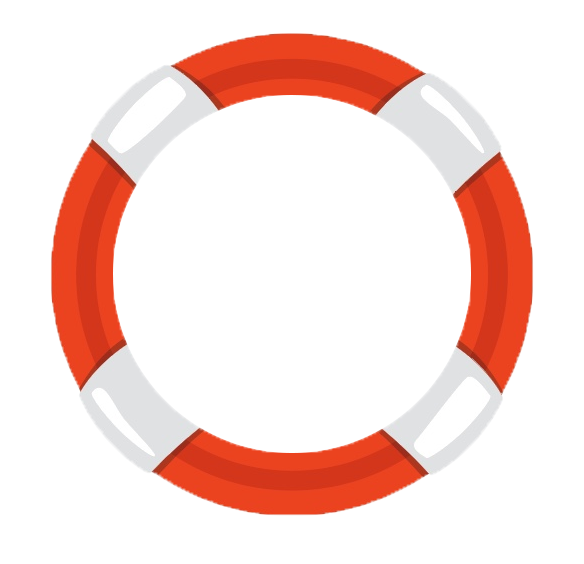
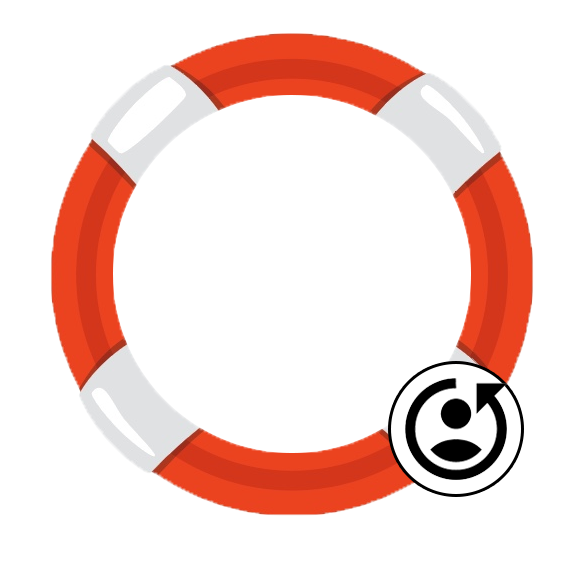
feat: 프로필 사진 변경 기능 추가

Changed region(s): [[0.6473, 0.633, 0.9247, 0.9043]]

diff --git a/front/src/pages/accounts/ProfilePage.jsx b/front/src/pages/accounts/ProfilePage.jsx
@@ -1,4 +1,4 @@
-import { useDispatch } from "react-redux";
+import { useDispatch, useSelector } from "react-redux";
 import { useState, useEffect } from "react";
 import { useNavigate } from "react-router-dom";
 import styled from "styled-components";
@@ -6,15 +6,17 @@ import ChartShow from "../../components/common/Chart";
 import ProfileBorder from "../../../src/assets/profilePage/ProfileBorder.png";
 import Loading from "../../components/common/Loading";
 import BookMark from "../../../src/assets/detail/BookMark.png";
-import { profile } from "../../features/accounts/profileSlice";
+import { profile, profileImage } from "../../features/accounts/profileSlice";
 import { getTags } from "../../features/toons/searchSlice";
 import { tagLike } from "../../features/details/detailSlice";
+import { changeCurrentUser } from "../../features/accounts/loginSlice";
 import profileImgItem from "../../assets/profile/profileImgItem";
 import ToonItem from "../../components/toonlist/ToonItem";
 import ModalFrame from "../../components/common/ModalFrame";
 import Left from "../../../src/assets/detail/Left.png";
 import Right from "../../../src/assets/detail/Right.png";
 import Empty from "../../../src/assets/tuntunEmpty.png";
+import MySwal from "../../components/common/SweetAlert";
 
 function ProfilePage() {
   const dispatch = useDispatch();
@@ -25,16 +27,23 @@ function ProfilePage() {
   const [paintGraphData, setPaintGraphData] = useState();
   const [genreName, setgGenreName] = useState();
   const [genreValue, setgGenreValue] = useState();
-  const [modal, setModal] = useState(false);
+  const [tagModal, setTagModal] = useState(false);
+  const [profileModal, setProfileModal] = useState(false);
   const [count, setCount] = useState(1);
   const [slideCount, setSlideCount] = useState();
   const [unLikedTags, setUnLikedTags] = useState(); //검색가능한 데이터
   const [searchWord, setSearchWord] = useState("");
   const [filteredTags, setFilteredTags] = useState();
-
+  const [profileImageId, setProfileImageId] = useState(0);
+  const [toolTipDisplay, setToolTipDisplay] = useState("none");
   let slide;
+  let myProfile
+  useSelector(
+    (state) => myProfile = state.login.currentUser
+  )
   const boxColor = ["#fea3a3", "#92d7fa", "#fffbaf"];
   let boxColorIndex = 0;
+  const profileNumbers = [0, 1, 2, 3, 4, 5];
   function getUserInfo() {
     dispatch(profile()).then((res) => {
       console.log(res.payload);
@@ -60,7 +69,6 @@ function ProfilePage() {
         Math.ceil(Number(res.payload.data.liked_webtoons.length) / 4)
       );
       setIsLoading(false);
-      console.log(res.payload.data.tags);
       dispatch(getTags()).then((tagres) => {
         let temp = tagres.payload;
         let tempUnLikedTags = [];
@@ -68,7 +76,6 @@ function ProfilePage() {
           (tag) => !tempLikedTags.includes(tag.tag_id)
         );
         setUnLikedTags(tempUnLikedTags);
-        console.log(tempUnLikedTags);
       });
     });
   }
@@ -89,8 +96,8 @@ function ProfilePage() {
     return result;
   }
 
-  function switchModal() {
-    setModal((prev) => !prev);
+  function switchTagModal() {
+    setTagModal((prev) => !prev);
   }
 
   function left() {
@@ -168,6 +175,41 @@ function ProfilePage() {
     );
     setFilteredTags(tempFilteredTags);
     console.log(e.target.value);
+  }
+
+  function switchProfileModal() {
+    setProfileModal((prev) => !prev);
+  }
+
+  function chooseProfile(e) {
+    console.log(e.target.id);
+    setProfileImageId(e.target.id);
+  }
+
+  function profileChange() {
+    let data = { profile_image_id: profileImageId }
+    dispatch(profileImage(data)).then(() => {
+      let tempMyProfile = JSON.stringify(myProfile);
+      tempMyProfile = JSON.parse(tempMyProfile);
+      tempMyProfile.profile_image_id = profileImageId;
+      dispatch(changeCurrentUser(tempMyProfile));
+      getUserInfo();
+      MySwal.fire({
+        title: "프로필 사진 변경 완료!",
+        icon: "success",
+        confirmButtonColor: "#feec91",
+        confirmButtonText: "확인",
+      });
+      setProfileModal(false);
+    });
+  }
+
+  function toolTipOn() {
+    setToolTipDisplay("");
+  }
+
+  function toolTipOff() {
+    setToolTipDisplay("none");
   }
 
   useEffect(() => {
@@ -248,9 +290,37 @@ function ProfilePage() {
           <UserBorder>
             <UserBack>
               <UserInfo>
-                <BorderImg src={ProfileBorder} alt="테두리" />
+                <ToolTip id="ToolTip" data={toolTipDisplay}>프사 바꿀래?</ToolTip>
+                <BorderImg src={ProfileBorder} alt="테두리" onClick={switchProfileModal} onMouseEnter={toolTipOn} onMouseOut={toolTipOff} />
                 <ProfileImg src={userImg} alt="프로필사진" />
-                <Name>{userInfo.data.nickname} 님의 관심정보</Name>
+                {profileModal ? (
+                  <ModalFrame
+                    top="10vw"
+                    width="75%"
+                    height="auto"
+                    _handleModal={switchProfileModal}
+                  >
+                    <ModalTitle>마음에 드는 프로필 이미지를 골라주세요</ModalTitle>
+                    <Line></Line>
+                    <ProfileZone>{profileNumbers.map((profileNumber) => profileNumber === Number(profileImageId) ? <ChoosedProfileCandidate src={profileImgItem[profileNumber].img} id={profileNumber} onClick={chooseProfile} key={profileNumbers}></ChoosedProfileCandidate> : <ProfileCandidate src={profileImgItem[profileNumber].img} id={profileNumber} onClick={chooseProfile} key={profileNumber}></ProfileCandidate>)}</ProfileZone>
+                    <ChangeButton onClick={profileChange}> 변경 </ChangeButton>
+                    <FilterZone>
+                      {filteredTags === undefined || searchWord.length === 0
+                        ? ""
+                        : filteredTags.map((filteredTag) => (
+                          <SearchTag
+                            key={filteredTag.tag_id}
+                            id={filteredTag.tag_id}
+                            onClick={tagSwitch}
+                          >
+                            <TagName>{filteredTag.name}</TagName>
+                            <PlusButton>+</PlusButton>
+                          </SearchTag>
+                        ))}
+                    </FilterZone>
+                  </ModalFrame>
+                ) : null}
+                <Name>{userInfo.data.nickname} 님의 관심사</Name>
               </UserInfo>
               <ChartZone>
                 <ChartTitleZone>
@@ -302,14 +372,14 @@ function ProfilePage() {
                 ? null
                 : `(${userInfo.data.tags.length})`}
             </TagTitle>
-            <TagAddRemove onClick={switchModal}>태그 추가/제거</TagAddRemove>
+            <TagAddRemove onClick={switchTagModal}>태그 추가/제거</TagAddRemove>
           </TagTitleZone>
-          {modal ? (
+          {tagModal ? (
             <ModalFrame
               top="5vw"
               width="75%"
               height="auto"
-              _handleModal={switchModal}
+              _handleModal={switchTagModal}
             >
               <ModalTitle>태그 추가/제거</ModalTitle>
               <LikedTagZone>
@@ -399,9 +469,7 @@ function ProfilePage() {
                     </ToonInfo>
                   </LikedWebToon>
                 ))}</LikedWebToons>
-
             }
-
           </LikedWebToonBack>
           <TagTitleZone>
             <TagTitle>최근에 본 웹툰</TagTitle>
@@ -454,32 +522,59 @@ const UserBack = styled.div`
 `;
 
 const BorderImg = styled.img`
+  cursor: pointer;
   position: absolute;
   margin-top: 0.5vw;
   margin-left: 0.5vw;
-  width: 5vw;
+  width: 7vw;
   overflow: hidden;
   z-index: 1;
 `;
 
 const ProfileImg = styled.img`
-
-  margin-top: 1.1vw;
-  margin-left: 1.3vw;
-  width: 3.3vw;
-  height:3.3vw;
+  margin-top: 1.2vw;
+  margin-left: 1.7vw;
+  width: 4.8vw;
+  height: 4.8vw;
   border-radius: 70%;
   object-fit: cover;
   z-index: 0;
 `;
 
+const ChangeButton = styled.div`
+  cursor: pointer;
+  font-size: 1.5vw;
+  padding: 0.25vw;
+  border: 0.1vw solid black;
+  border-radius: 1vw;
+  background-color: white;
+  margin-top: 1.1vw;
+  &:hover {
+    background-color: pink;
+  }
+`
+
 const UserInfo = styled.div`
   display: flex;
 `;
 
+const ToolTip = styled.div`
+display: ${(props) => props.data};
+position: absolute;
+padding: 0.3vw;
+border-radius: 0.3vw;
+background-color: #4f4f4fb4;
+color:white;
+margin-top: -1vw;
+margin-left: 1.8vw;
+font-size: 0.6vw;
+z-index: 1;
+transition: 0.3s;
+`;
+
 const Name = styled.div`
   font-size: 1.2vw;
-  margin-top: 2vw;
+  margin-top: 3vw;
   margin-left: 1vw;
   font-weight: 600;
 `;
@@ -584,6 +679,7 @@ const PlusButton = styled.div`
 
 const ModalTitle = styled.div`
   margin-top: 2vw;
+  font-size: 1.5vw;
 `;
 const LikedTagZone = styled.div`
   display: flex;
@@ -599,6 +695,36 @@ const Line = styled.div`
   margin-top: 1vw;
   border-top: 0.2vw solid black;
   width: 100%;
+`;
+
+const ProfileZone = styled.div`
+flex-flow: wrap; 
+`;
+
+const ChoosedProfileCandidate = styled.img`
+  margin: 1.5vw;
+  width: 8vw;
+  height: 8vw;
+  border-radius: 70%;
+  border-width: 0.5vw;
+  border-color: #89c4ff;
+  border-style: solid;
+  object-fit: cover;
+  z-index: 0;
+  `;
+
+const ProfileCandidate = styled.img`
+  margin: 2vw;
+  width: 8vw;
+  height: 8vw;
+  border-radius: 70%;
+  object-fit: cover;
+  z-index: 0;
+  transition: 0.3s;
+  &:hover {
+    transform:scale(1.3);
+  }
+
 `;
 
 const SearchBar = styled.input`

diff --git a/front/src/features/accounts/profileSlice.js b/front/src/features/accounts/profileSlice.js
@@ -13,7 +13,22 @@ const profile = createAsyncThunk(
       console.log(err);
       return rejectWithValue(err.response.data);
     }
-  }
+  },
+);
+
+const profileImage = createAsyncThunk(
+  "profileImage",
+  async (data, { rejectWithValue }) => {
+    console.log(data);
+    try {
+      const res = await axios.put(api.profileImage(), data, getConfig());
+      console.log(res.data);
+      return res.data;
+    } catch (err) {
+      console.log(err);
+      return rejectWithValue(err.response.data);
+    }
+  },
 );
 
 export const profileSlice = createSlice({
@@ -29,11 +44,19 @@ export const profileSlice = createSlice({
       console.log("프로필 가져오기 실패 ㅠㅠ");
       console.log(action.payload);
     },
+    [profileImage.fulfilled]: (action) => {
+      console.log("프로필 사진 변경 성공!");
+      console.log(action.payload);
+    },
+    [profileImage.rejected]: (action) => {
+      console.log("프로필 사진 변경 실패 ㅠㅠ");
+      console.log(action.payload);
+    },
   },
 });
 
-export { profile };
+export { profile, profileImage };
 // Action creators are generated for each case reducer function
-export const {} = profileSlice.actions;
+// export const {} = profileSlice.actions;
 
 export default profileSlice.reducer;

diff --git a/front/src/api.js b/front/src/api.js
@@ -48,7 +48,11 @@ const PASSWORD_URL = "check/";
 const EDIT_URL = "update/";
 =======
 const PROFILE_URL = "profile/";
+<<<<<<< HEAD
 >>>>>>> 4ca15ff (feat: 프로필 페이지 껍데기 구현 및 API  연동)
+=======
+const IMAGE_URL = "image/";
+>>>>>>> 8f76a36 (feat: 프로필 사진 변경 기능 추가)
 
 const SEARCH_IMG_URL = "search/image/";
 >>>>>>> 6e82ed7 (feat: toonbti 질문&보기 구현)
@@ -101,6 +105,7 @@ const api = {
 
   //profileSlice
   profile: () => BASE_URL + ACCOUNTS_URL + USER_URL + PROFILE_URL,
+  profileImage: () => BASE_URL + ACCOUNTS_URL + USER_URL + IMAGE_URL,
 
   //uploadSlice
   fetchUpload: () => BASE_URL + WEBTOONS_URL + SEARCH_IMG_URL,
@@ -110,6 +115,7 @@ const api = {
 =======
 
   //toonlistSlice
+<<<<<<< HEAD
 <<<<<<< HEAD
 <<<<<<< HEAD
   fetchToonlist: (pageNum) => BASE_URL + WEBTOONS_URL + TOON_LIST_URL + pageNum,
@@ -122,6 +128,10 @@ const api = {
   fetchToonlist: (pageNum) =>
     BASE_URL + WEBTOONS_URL + TOON_LIST_URL + pageNum + "/",
 >>>>>>> 39fe5fb (feat: 명탐정툰툰 가운데 정렬)
+=======
+  fetchToonlist: (pageNum) =>
+    BASE_URL + WEBTOONS_URL + TOON_LIST_URL + pageNum + "/",
+>>>>>>> 8f76a36 (feat: 프로필 사진 변경 기능 추가)
 
   //filterSlice
   filterToons: (pageNum) =>
